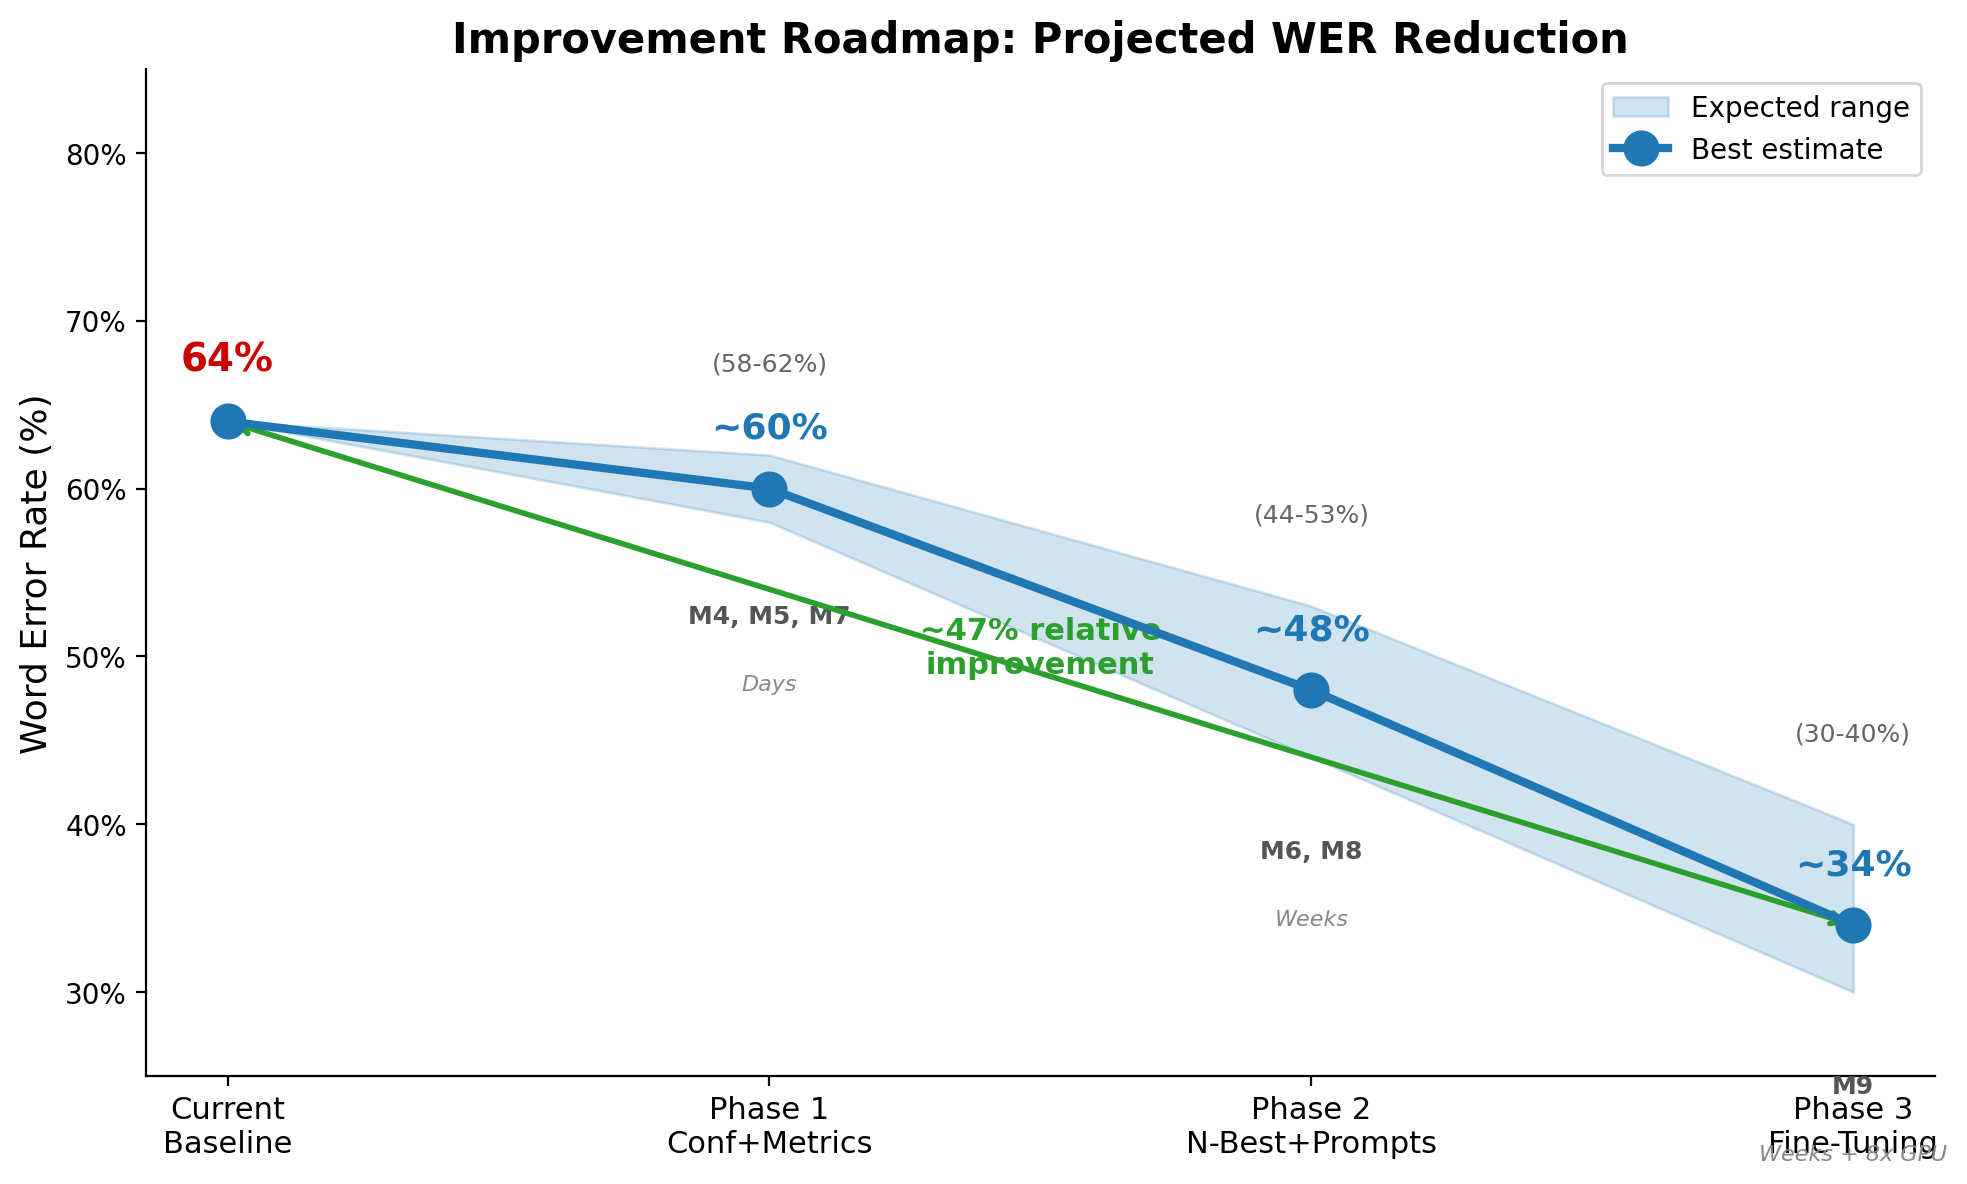
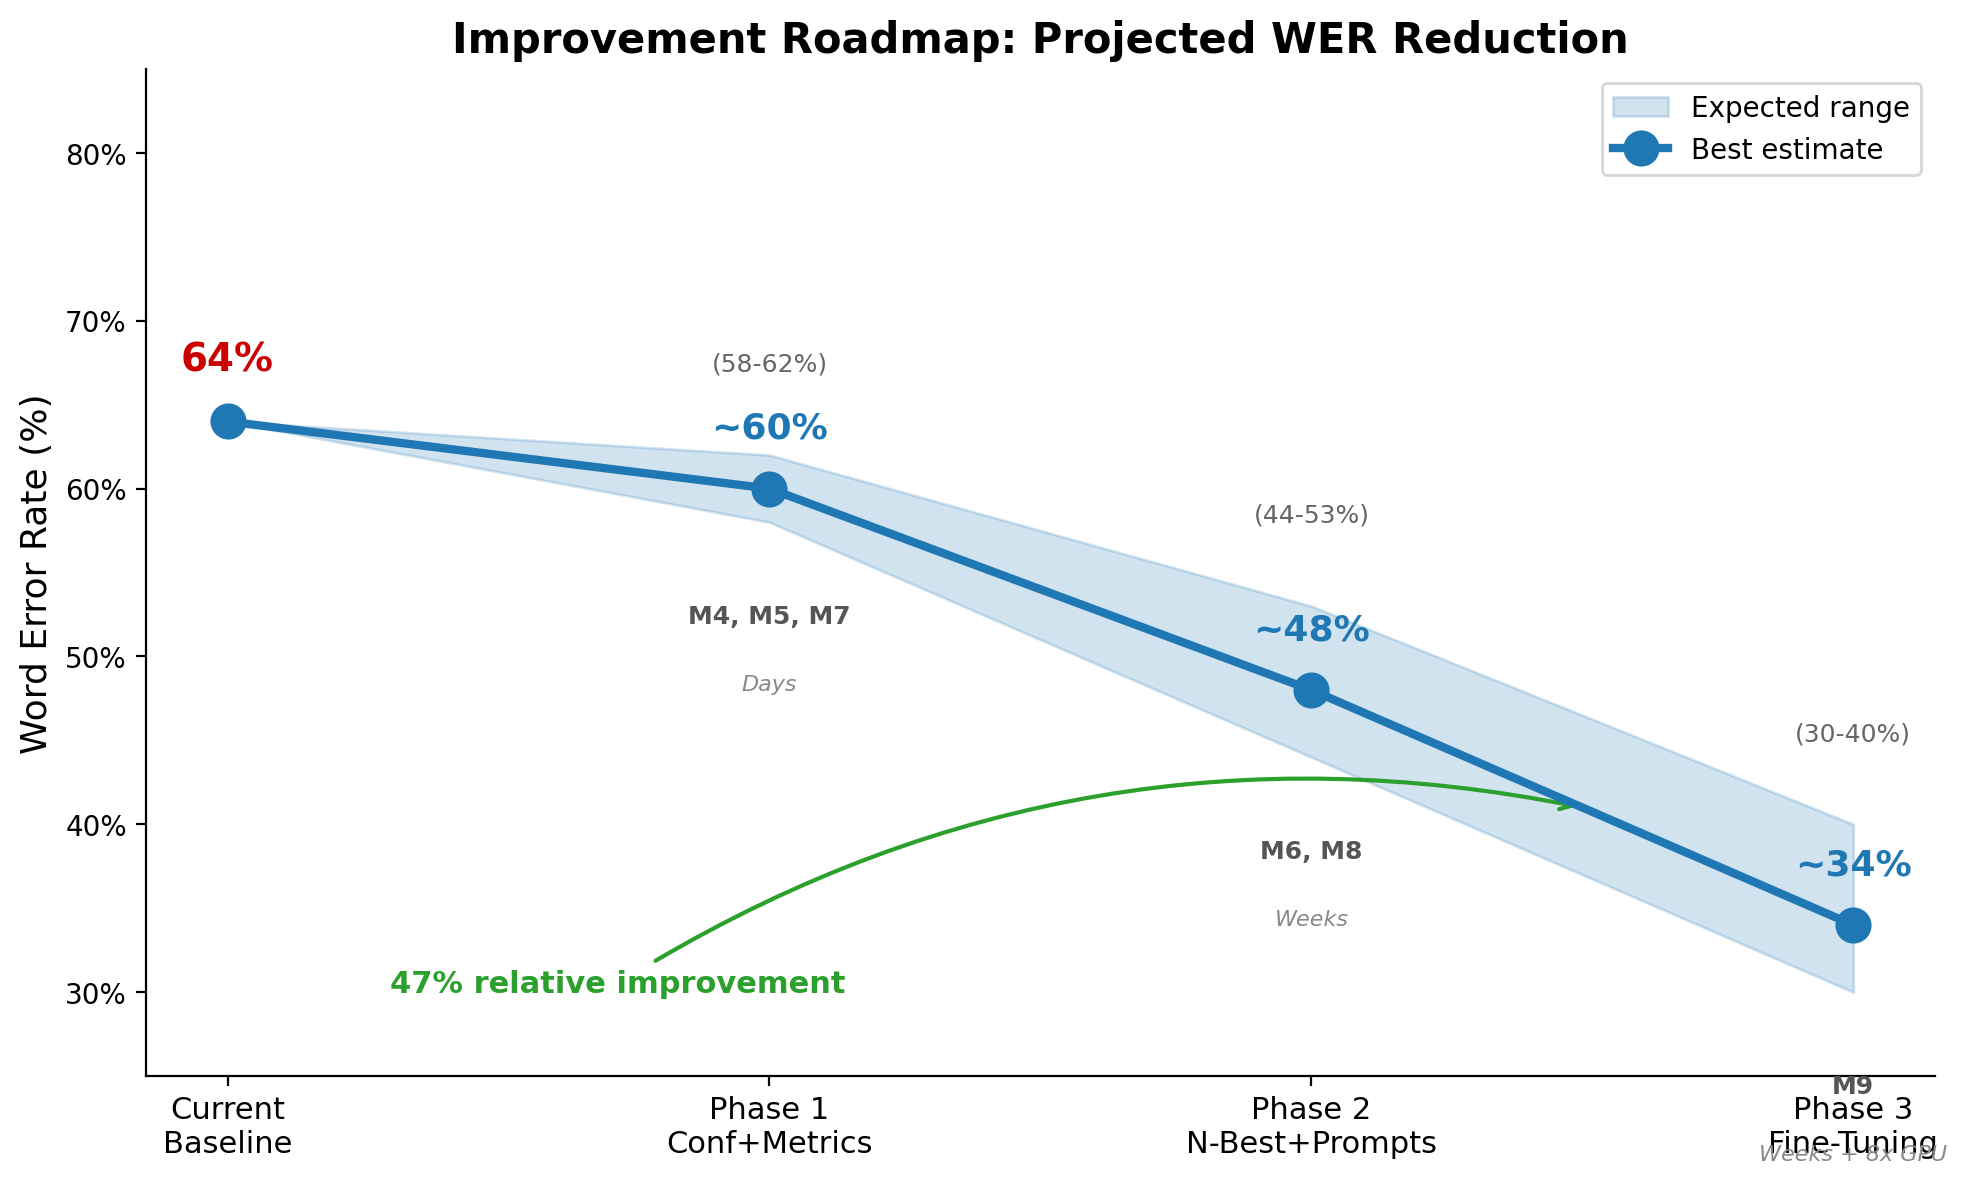
fix: move WER trajectory improvement annotation to avoid label overlap
Repositioned "47% relative improvement" to bottom-left with arrow,
clearing space around mission labels and data point annotations.

diff --git a/docs/_research-tools/generators/generate_presentation_plots.py b/docs/_research-tools/generators/generate_presentation_plots.py
@@ -176,11 +176,11 @@ def plot_P3_wer_trajectory():
     ax.spines["top"].set_visible(False)
     ax.spines["right"].set_visible(False)
 
-    # Improvement annotation
-    ax.annotate("", xy=(3, 34), xytext=(0, 64),
-                arrowprops=dict(arrowstyle="<->", color="#2ca02c", lw=2))
-    ax.text(1.5, 49, "~47% relative\nimprovement", ha="center", fontsize=11,
-            fontweight="bold", color="#2ca02c")
+    # Improvement annotation — label in open bottom-left area
+    ax.annotate("47% relative improvement", xy=(2.5, 41), xytext=(0.3, 30),
+                fontsize=11, fontweight="bold", color="#2ca02c", ha="left",
+                arrowprops=dict(arrowstyle="->", color="#2ca02c", lw=1.5,
+                                connectionstyle="arc3,rad=-0.2"))
 
     plt.tight_layout()
     out = OUTPUT_DIR / "P3_wer_trajectory.png"